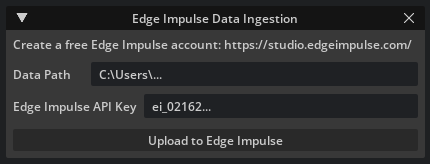
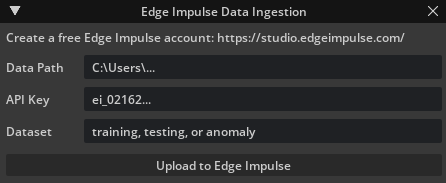
Add option to select which dataset

diff --git a/exts/edgeimpulse.dataingestion/edgeimpulse/dataingestion/extension.py b/exts/edgeimpulse.dataingestion/edgeimpulse/dataingestion/extension.py
@@ -9,38 +9,45 @@ from functools import partial
 import requests
 import os
 
-async def upload_data(api_key, data_folder):
-    host = "https://studio.edgeimpulse.com/v1"
-
-    for file in os.listdir(data_folder):
-        file_path = os.path.join(data_folder, file)
-        # Labels are determined from the filename, anything after "." is ignored, i.e.
-        # File "object.1.blah.png" will be uploaded as file object.1.blah with label "object"
-        label = os.path.basename(file_path).split('.')[0]
-        if os.path.isfile(file_path):
-            with open(file_path, 'r') as file:
-                res = requests.post(url='https://ingestion.edgeimpulse.com/api/training/files',
-                headers= {
-                    'x-label': label,
-                    'x-api-key': api_key,
-                    'x-disallow-duplicates': '1'
-                },
-                files = { 'data': (os.path.basename(file_path), open(file_path, 'rb'), 'image/png') }
-            )
-        if (res.status_code == 200):
-            print('Uploaded file to Edge Impulse', res.status_code, res.content)
-        else:
-            print('Failed to upload file to Edge Impulse', res.status_code, res.content)
+async def upload_data(api_key, data_folder, dataset):
+    dataset_types = ["training", "testing", "anomaly"]
+    if dataset not in dataset_types:
+        return('Error: Dataset type invalid (must be training, testing, or anomaly).')
+    url = 'https://ingestion.edgeimpulse.com/api/' + dataset + '/files'
+    try:
+        for file in os.listdir(data_folder):
+            file_path = os.path.join(data_folder, file)
+            # Labels are determined from the filename, anything after "." is ignored, i.e.
+            # File "object.1.blah.png" will be uploaded as file object.1.blah with label "object"
+            label = os.path.basename(file_path).split('.')[0]
+            if os.path.isfile(file_path):
+                with open(file_path, 'r') as file:
+                    res = requests.post(url=url,
+                    headers= {
+                        'x-label': label,
+                        'x-api-key': api_key,
+                        'x-disallow-duplicates': '1'
+                    },
+                    files = { 'data': (os.path.basename(file_path), open(file_path, 'rb'), 'image/png') }
+                )
+            if (res.status_code == 200):
+                return(res.text)
+            else:
+                return(str("Error: Status Code " + str(res.status_code) + ": " + res.text))
+    except FileNotFoundError:
+        return('Error: Data Path invalid.')
 
 def getPath(label, text):
-    #label.text = f"You wrote '{text}'"
     DataIngestion.DATA_FOLDER = os.path.normpath(text)
     #print("Data Path Changed:", DataIngestion.DATA_FOLDER)
 
 def getEIAPIKey(label, text):
-    #label.text = f"You wrote '{text}'"
     DataIngestion.API_KEY = text
     #print("Edge Impulse API Key Changed:", DataIngestion.API_KEY)
+
+def getDatasetType(label, text):
+    DataIngestion.DATASET = text
+    #print("Edge Impulse API Key Changed:", DataIngestion.DATASET)
 
 # Any class derived from `omni.ext.IExt` in top level module (defined in `python.modules` of `extension.toml`) will be
 # instantiated when extension gets enabled and `on_startup(ext_id)` will be called. Later when extension gets disabled
@@ -51,11 +58,12 @@ class DataIngestion(omni.ext.IExt):
     
     API_KEY = ''
     DATA_FOLDER = ''
+    DATASET = ''
 
     def on_startup(self, ext_id):
         print("[edgeimpulse.dataingestion] Edge Impulse Data Ingestion startup")
 
-        self._window = ui.Window("Edge Impulse Data Ingestion", width=450, height=155)
+        self._window = ui.Window("Edge Impulse Data Ingestion", width=450, height=220)
         with self._window.frame:
             with ui.VStack(spacing=8):
                 
@@ -66,7 +74,7 @@ class DataIngestion(omni.ext.IExt):
 
                 with ui.HStack(height=20):
                     ui.Spacer(width=3)
-                    data_path_label = ui.Label("Data Path", name="header_attribute_name", width=70)
+                    data_path_label = ui.Label("Data Path", width=70)
                     ui.Spacer(width=8)
                     data_path = ui.StringField(name="path")
                     data_path.model.set_value("C:\\Users\\...")
@@ -75,21 +83,35 @@ class DataIngestion(omni.ext.IExt):
 
                 with ui.HStack(height=20):
                     ui.Spacer(width=3)
-                    ei_api_key_label = ui.Label("Edge Impulse API Key", name="header_attribute_name", width=70)
+                    ei_api_key_label = ui.Label("API Key", width=70)
                     ui.Spacer(width=8)
                     ei_api_key = ui.StringField(name="ei_api_key")
                     ei_api_key.model.set_value("ei_02162...")
                     ei_api_key.model.add_value_changed_fn(lambda m, label=ei_api_key_label: getEIAPIKey(ei_api_key_label, m.get_value_as_string()))
                     ui.Spacer(width=3)
 
+                with ui.HStack(height=20):
+                    ui.Spacer(width=3)
+                    dataset_type_label = ui.Label("Dataset", width=70)
+                    ui.Spacer(width=8)
+                    dataset_type = ui.StringField(name="dataset")
+                    dataset_type.model.set_value("training, testing, or anomaly")
+                    dataset_type.model.add_value_changed_fn(lambda m, label=dataset_type_label: getDatasetType(dataset_type_label, m.get_value_as_string()))
+                    ui.Spacer(width=3)
+
                 def on_click():
                     #asyncio.ensure_future()
                     loop = asyncio.get_event_loop()
-                    loop.run_until_complete(upload_data(self.API_KEY, self.DATA_FOLDER))
+                    res = loop.run_until_complete(upload_data(self.API_KEY, self.DATA_FOLDER, self.DATASET))
+                    results_label.text = res
                 
                 with ui.HStack(height=20):
                     ui.Button("Upload to Edge Impulse", clicked_fn=on_click)
-
+                
+                with ui.HStack(height=20):
+                    ui.Spacer(width=3)
+                    results_label = ui.Label("", height=20, word_wrap=True)
+                
 
     def on_shutdown(self):
         print("[edgeimpulse.dataingestion] Edge Impulse Data Ingestion shutdown")
